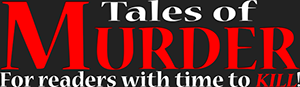
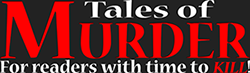
header image adjust
reduced to 250px width to better fit mobile screens

diff --git a/_includes/masthead.html b/_includes/masthead.html
@@ -6,7 +6,7 @@
         <a href="{{ site.url }}/">
           <span>Tales of Murder</span>
           <img src="{{ site.url }}/img/header_simp.png" alt="" class="mastheadIMG hide-on-mobile">
-          <img src="{{ site.url }}/img/header_smob.png" alt="" class="mastheadIMG hide">
+          <img src="{{ site.url }}/img/header_smob.png" alt="" class="mastheadIMG hide center-on-mobiles">
         </a>
       </h1>
     </div>
